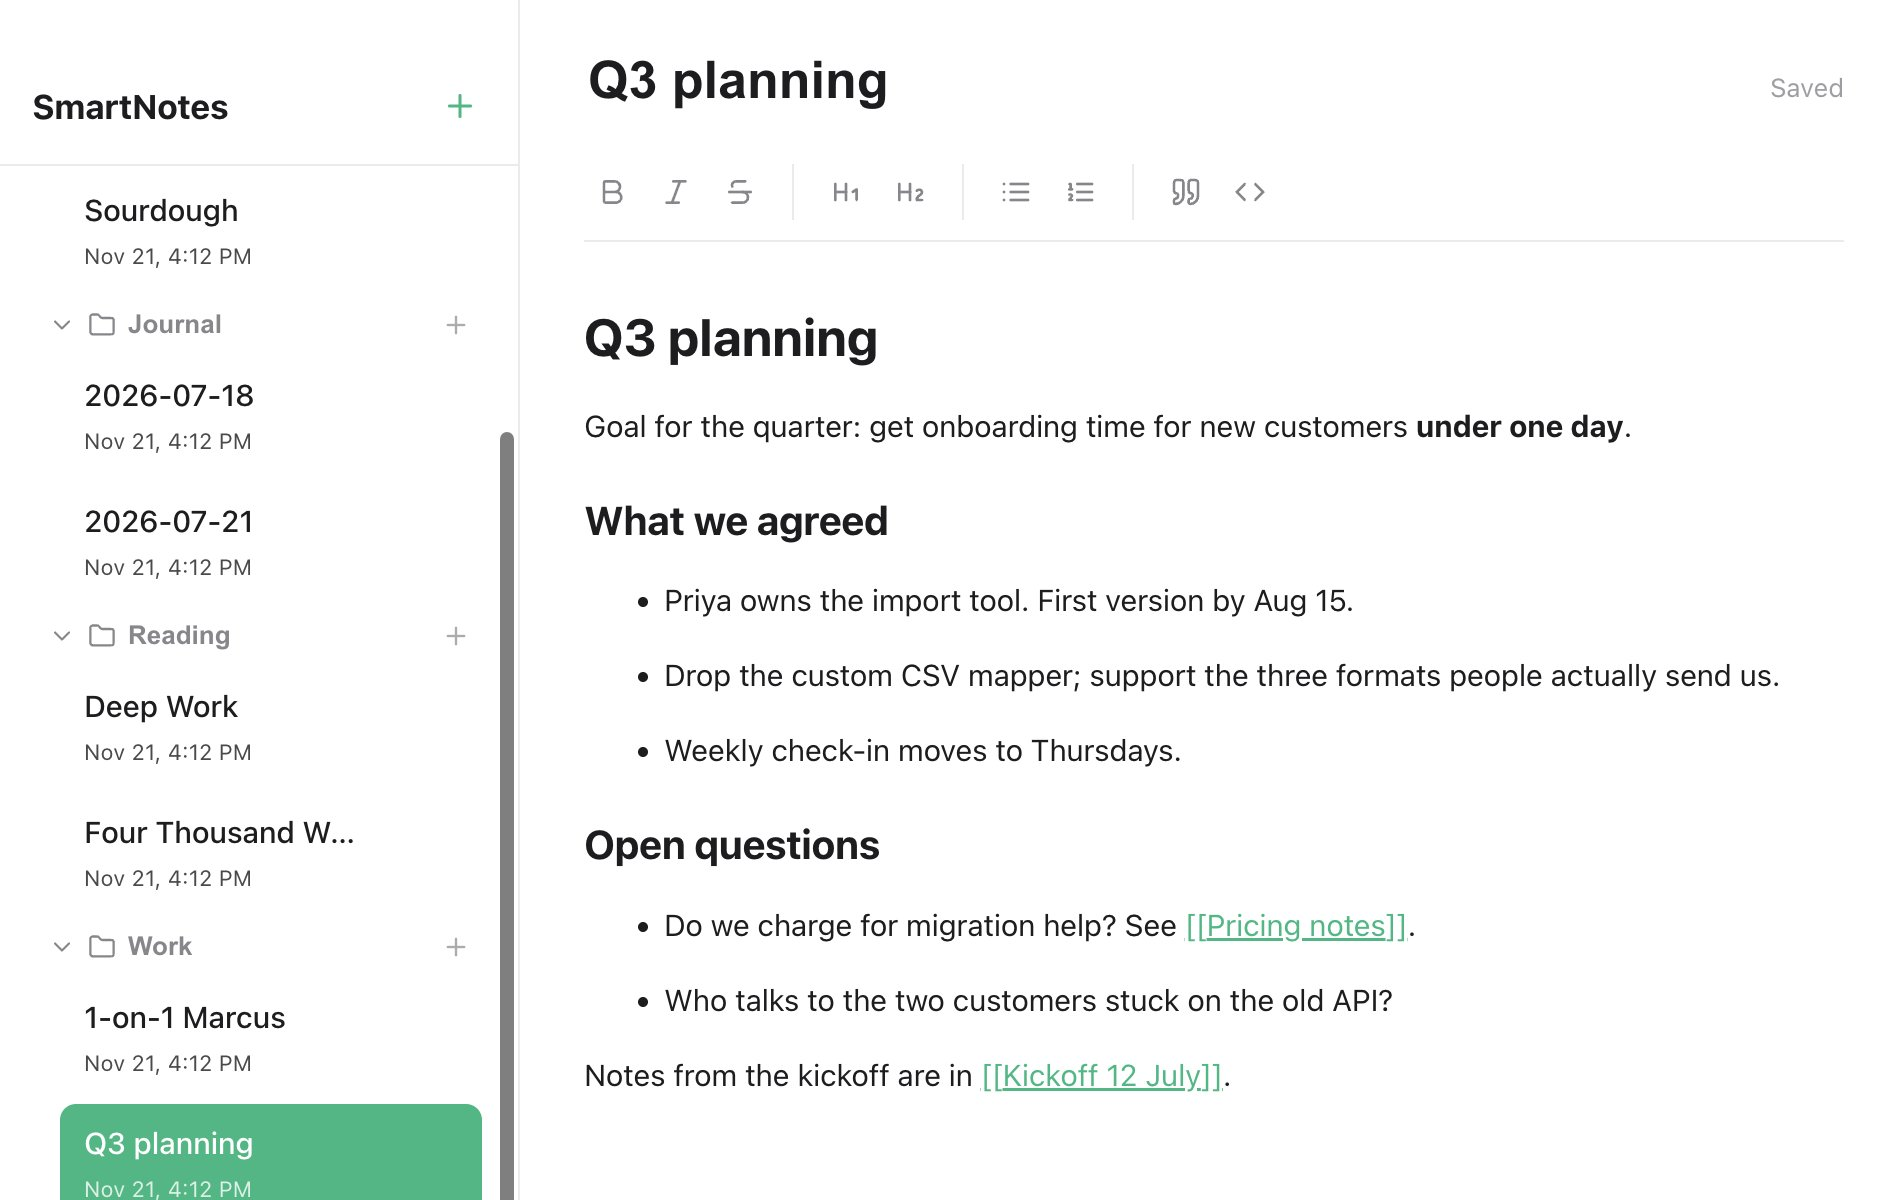
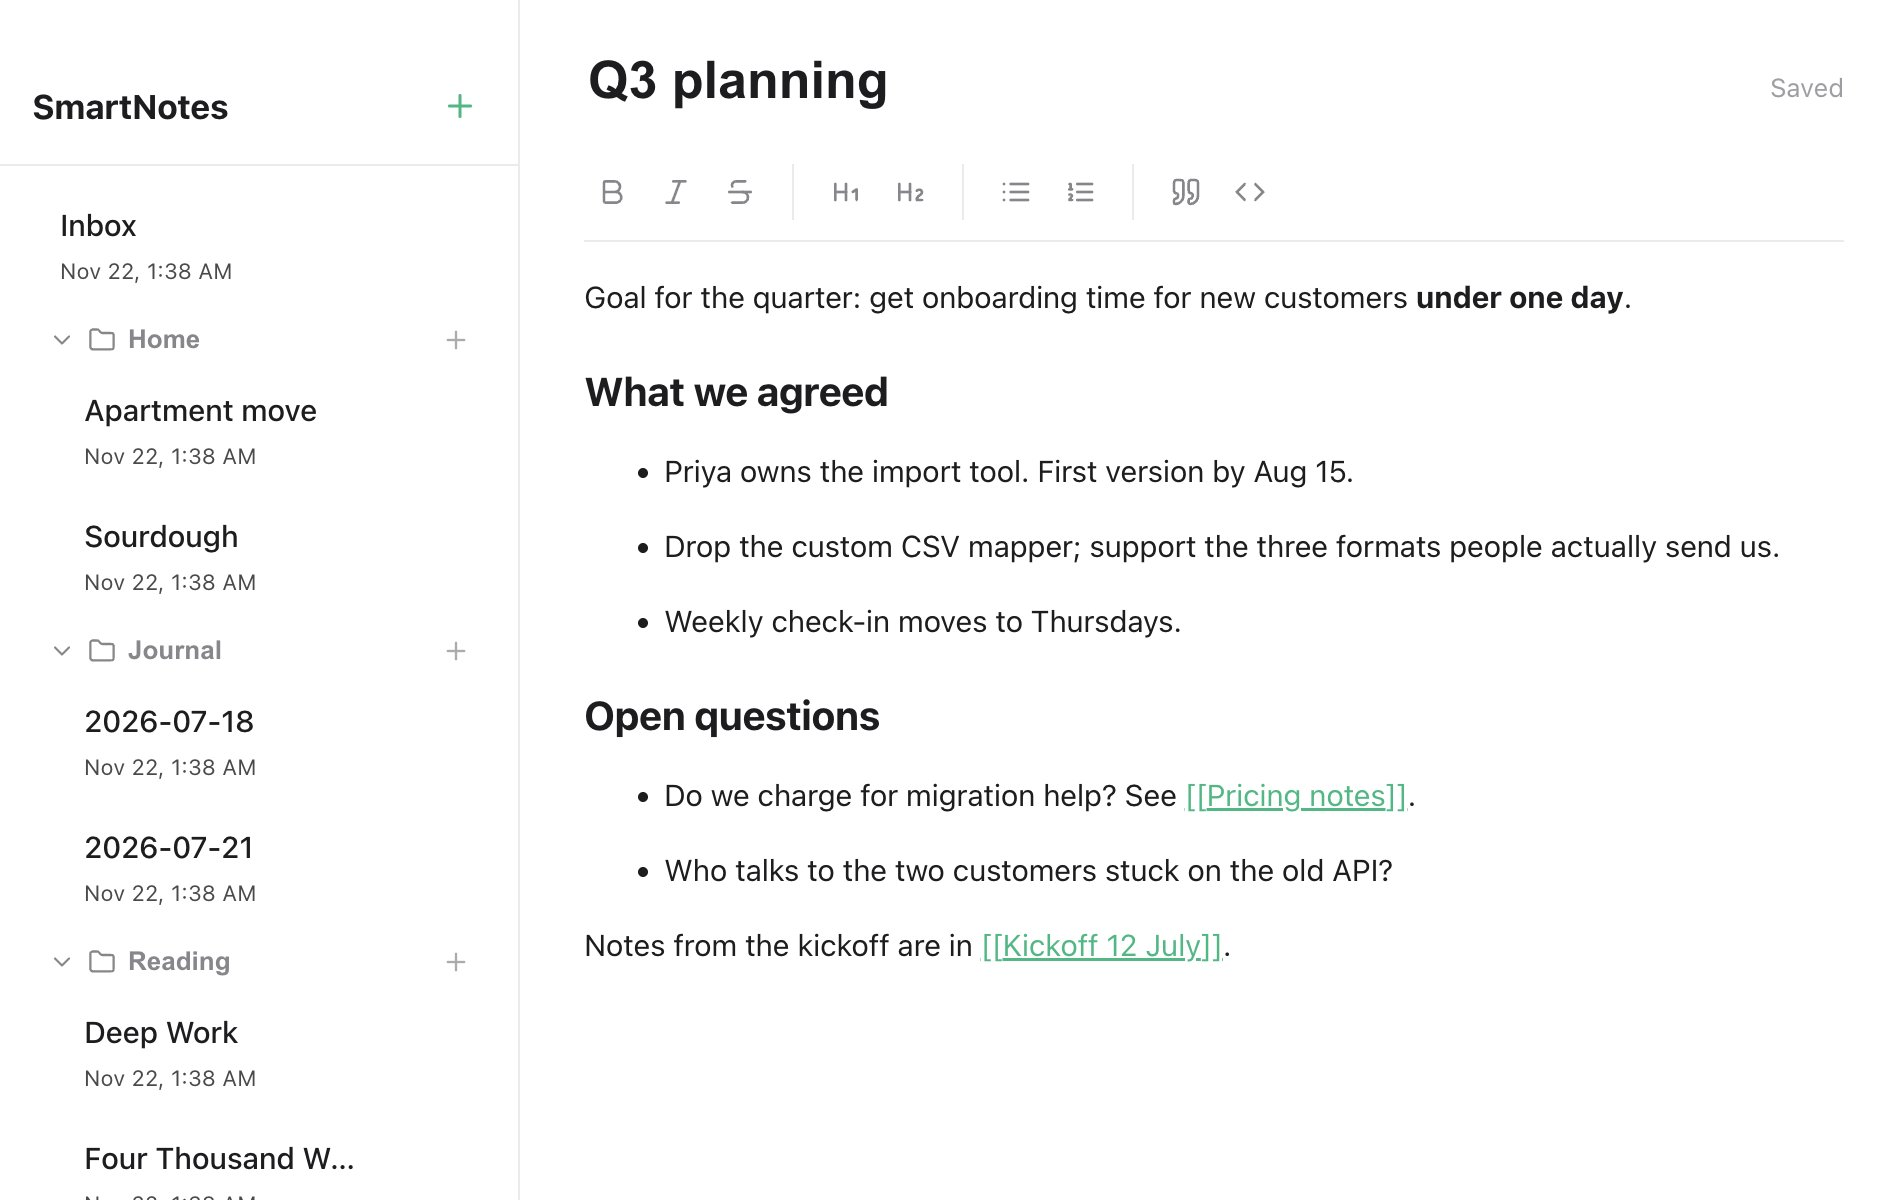
SEO: titles, share image, structured data, sitemap, Search Console

diff --git a/site/index.html b/site/index.html
@@ -3,11 +3,51 @@
 <head>
   <meta charset="utf-8" />
   <meta name="viewport" content="width=device-width, initial-scale=1" />
-  <title>SmartNotes for Mac</title>
-  <meta name="description" content="A notes app for Mac that keeps your writing as plain Markdown files and finds notes by what you meant. Free, open source, works offline." />
-  <meta property="og:title" content="SmartNotes for Mac" />
-  <meta property="og:description" content="Plain Markdown files on your Mac, searchable by meaning. Free and open source." />
-  <meta property="og:image" content="img/editor.jpg" />
+  <title>SmartNotes: Private Markdown Notes App for Mac</title>
+  <meta name="description" content="Free, open-source Markdown notes app for Mac. Search notes by meaning, link ideas, import Obsidian vaults and read notes on your phone. Works offline." />
+  <meta name="google-site-verification" content="sXowhJEmyh366PV-L9-GSXqof-fmQYWh2pqUjsidgpE" />
+  <link rel="canonical" href="https://rozerxshashank.github.io/Smartnotes-poc/" />
+  <meta name="theme-color" content="#f6f4ef" />
+
+  <meta property="og:type" content="website" />
+  <meta property="og:site_name" content="SmartNotes" />
+  <meta property="og:url" content="https://rozerxshashank.github.io/Smartnotes-poc/" />
+  <meta property="og:title" content="SmartNotes: Private Markdown Notes App for Mac" />
+  <meta property="og:description" content="Plain Markdown files on your Mac, searchable by meaning, on your phone without the cloud. Free and open source." />
+  <meta property="og:image" content="https://rozerxshashank.github.io/Smartnotes-poc/img/social.png" />
+  <meta property="og:image:width" content="1200" />
+  <meta property="og:image:height" content="630" />
+  <meta property="og:image:alt" content="SmartNotes: notes that find themselves. A private Markdown notes app for Mac." />
+  <meta name="twitter:card" content="summary_large_image" />
+  <meta name="twitter:title" content="SmartNotes: Private Markdown Notes App for Mac" />
+  <meta name="twitter:description" content="Plain Markdown files on your Mac, searchable by meaning. Free and open source." />
+  <meta name="twitter:image" content="https://rozerxshashank.github.io/Smartnotes-poc/img/social.png" />
+
+  <script type="application/ld+json">
+{
+  "@context": "https://schema.org",
+  "@type": "SoftwareApplication",
+  "name": "SmartNotes",
+  "description": "A local-first Markdown notes app for Mac with search by meaning, linked notes, Obsidian import and phone access over your home Wi-Fi.",
+  "applicationCategory": "ProductivityApplication",
+  "operatingSystem": "macOS 12 or later (Apple Silicon)",
+  "softwareVersion": "1.1.0",
+  "url": "https://rozerxshashank.github.io/Smartnotes-poc/",
+  "downloadUrl": "https://github.com/Rozerxshashank/Smartnotes-poc/releases/latest/download/SmartNotes-mac-arm64.dmg",
+  "image": "https://rozerxshashank.github.io/Smartnotes-poc/img/social.png",
+  "screenshot": [
+    "https://rozerxshashank.github.io/Smartnotes-poc/img/editor.jpg",
+    "https://rozerxshashank.github.io/Smartnotes-poc/img/search.jpg",
+    "https://rozerxshashank.github.io/Smartnotes-poc/img/phone-note.jpg"
+  ],
+  "offers": {
+    "@type": "Offer",
+    "price": "0",
+    "priceCurrency": "USD"
+  },
+  "codeRepository": "https://github.com/Rozerxshashank/Smartnotes-poc"
+}
+  </script>
   <link rel="icon" type="image/png" href="img/favicon.png" />
   <link rel="apple-touch-icon" href="img/apple-touch-icon.png" />
   <link rel="preconnect" href="https://fonts.googleapis.com" />
@@ -66,6 +106,7 @@
     /* Hero */
     .hero { padding: 72px 0 0; }
     h1, h2 { font-family: var(--serif); font-weight: 400; letter-spacing: -0.02em; margin: 0; }
+    .category { font-size: 15px; font-weight: 600; color: var(--green); margin: 0 0 14px; letter-spacing: .01em; }
     h1 { font-size: clamp(40px, 6.2vw, 68px); line-height: 1.04; max-width: 13ch; }
     .lede { font-size: 20px; line-height: 1.55; color: var(--ink-soft); margin: 26px 0 36px; }
 
@@ -198,6 +239,7 @@
     <main>
       <section class="hero">
         <div class="measure">
+          <p class="category">Markdown notes app for Mac</p>
           <h1>Notes that find themselves.</h1>
           <p class="lede">
             SmartNotes keeps everything you write as ordinary Markdown files on your Mac, then lets you search them
@@ -210,7 +252,7 @@
               Download for Mac
             </a>
             <div class="get-meta">
-              <strong data-version>Version 1.0</strong> · <span data-size>Free</span><br />
+              <strong data-version>Version 1.1</strong> · <span data-size>Free</span><br />
               Apple Silicon (M1 or newer), macOS 12+
             </div>
           </div>
@@ -240,8 +282,8 @@
             </p>
           </div>
           <div class="frame">
-            <img src="img/search.jpg" width="1120" height="500" loading="lazy"
-                 alt="Search for 'tips for staying focused at work' returning the notes Deep Work, Four Thousand Weeks and 1-on-1 Marcus." />
+            <img src="img/search.jpg" width="1120" height="524" loading="lazy"
+                 alt="Searching 'tips for staying focused at work' finds the note Deep Work, whose text says 'the ability to focus without distraction'." />
           </div>
         </div>
       </section>
@@ -371,6 +413,14 @@ Open questions: see [[Pricing notes]].</span></pre>
           <div>
             <p>Not yet. This release is built for Apple Silicon Macs (M1 and newer). Windows and Intel builds are planned;
             <a href="https://github.com/Rozerxshashank/Smartnotes-poc/issues">open an issue</a> if you'd use one, so we know to prioritise it.</p>
+          </div>
+        </details>
+        <details>
+          <summary>Can I use it with Obsidian?</summary>
+          <div>
+            <p>Yes. Import a vault in Settings and its folders and [[wikilinks]] come across as they are. Or keep both:
+            open <code>Documents/SmartNotes</code> as a vault in Obsidian and both apps work on the same Markdown files.
+            Changes made in one show up in the other.</p>
           </div>
         </details>
         <details>

diff --git a/site/404.html b/site/404.html
@@ -1,0 +1,27 @@
+<!doctype html>
+<html lang="en">
+<head>
+  <meta charset="utf-8" />
+  <meta name="viewport" content="width=device-width, initial-scale=1" />
+  <title>Page not found · SmartNotes</title>
+  <meta name="robots" content="noindex" />
+  <link rel="icon" type="image/png" href="/Smartnotes-poc/img/favicon.png" />
+  <style>
+    :root { --paper: #f6f4ef; --ink: #1c1b19; --soft: #57534c; --green: #2f7a55; }
+    @media (prefers-color-scheme: dark) { :root { --paper: #161513; --ink: #eeebe4; --soft: #b5b0a5; --green: #6cc497; } }
+    body { margin: 0; min-height: 100vh; display: grid; place-items: center; background: var(--paper); color: var(--ink);
+           font: 17px/1.6 -apple-system, BlinkMacSystemFont, system-ui, sans-serif; padding: 24px; box-sizing: border-box; }
+    main { max-width: 440px; }
+    h1 { font: 400 40px/1.1 "New York", Georgia, serif; margin: 0 0 14px; letter-spacing: -0.02em; }
+    p { color: var(--soft); margin: 0 0 24px; }
+    a { color: var(--green); font-weight: 600; text-underline-offset: 3px; }
+  </style>
+</head>
+<body>
+  <main>
+    <h1>This page isn't here.</h1>
+    <p>The link may be old or mistyped. Everything about SmartNotes, including the download, is on the home page.</p>
+    <a href="/Smartnotes-poc/">Go to SmartNotes</a>
+  </main>
+</body>
+</html>

diff --git a/backend/services/search.py b/backend/services/search.py
@@ -214,13 +214,31 @@ def make_snippet(text: str, title: str = "", query: str = "", size: int = 200) -
 def _window_around_terms(content: str, query: str, size: int) -> str:
     """For keyword-only hits: the part of the note around the first matching term."""
     lower = content.lower()
-    positions = [lower.find(t) for t in re.findall(r"\w+", query.lower()) if t not in _STOPWORDS and len(t) > 2]
-    positions = [p for p in positions if p >= 0]
+    positions = []
+    for term in _query_terms(query):
+        # match word stems, so "focused" finds "focus" and "rise" finds "rising"
+        stem = term[:max(4, len(term) - 2)] if len(term) > 4 else term
+        found = re.search(r"\b" + re.escape(stem), lower)
+        if found:
+            positions.append(found.start())
     if not positions or len(content) <= size:
         return content[:size]
     start = max(0, min(positions) - size // 4)
+    if start:
+        # Begin at a sentence start if one is close, otherwise at a word boundary
+        sentence = max(content.rfind(". ", 0, start + 1), content.rfind("\n", 0, start + 1))
+        if sentence != -1 and start - sentence < size // 3:
+            start = sentence + 1
+        else:
+            space = content.rfind(" ", 0, start + 1)
+            start = space + 1 if space != -1 else start
+        while start < len(content) and content[start] in " \n":
+            start += 1
     end = start + size
-    return ("…" if start else "") + content[start:end] + ("…" if end < len(content) else "")
+    if end < len(content):
+        space = content.rfind(" ", start, end)
+        end = space if space > start else end
+    return ("…" if start else "") + content[start:end].strip() + ("…" if end < len(content) else "")
 
 
 async def retrieve_context(query: str, k_notes: int = 5, per_note_chars: int = 2500,

diff --git a/backend/tests/test_quality.py b/backend/tests/test_quality.py
@@ -108,3 +108,12 @@ async def test_precise_searches_do_not_list_unrelated_notes(sample_notes):
     # ...while broader questions still surface related notes
     related = [r["title"] for r in await search.hybrid_search("tips for staying focused at work", k=10)]
     assert related[:2] == ["Deep Work", "Four Thousand Weeks"]
+
+
+async def test_snippets_start_and_end_on_word_boundaries():
+    text = "First sentence about nothing much. " * 6 + "The ability to focus without distraction is rare. " + "Tail words here. " * 8
+    snippet = search.make_snippet(text, "", "focus distraction", size=120)
+    body = snippet.strip("…")
+    assert body.split()[0][0].isupper() or body.split()[0] in text.split()  # no cut-off first word
+    assert all(word in text.split() for word in body.split()[:1] + body.split()[-1:])
+    assert "focus" in snippet
